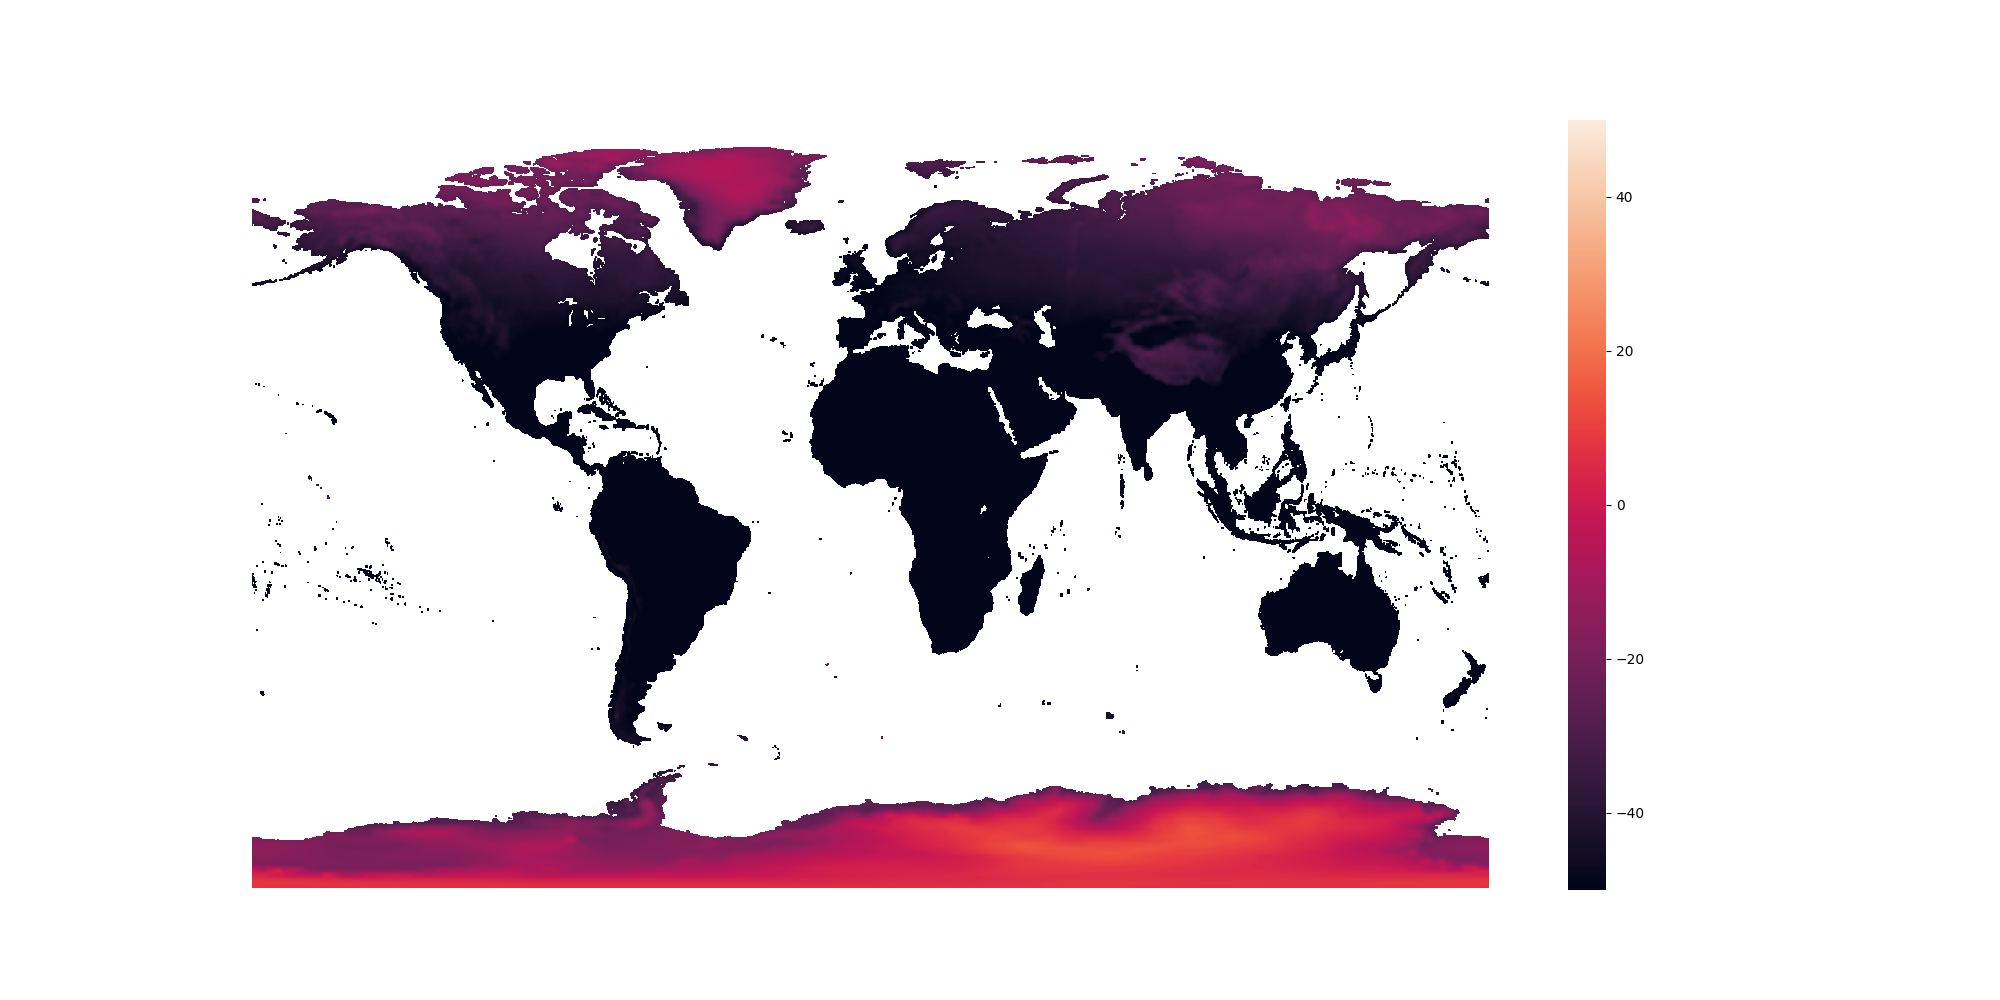
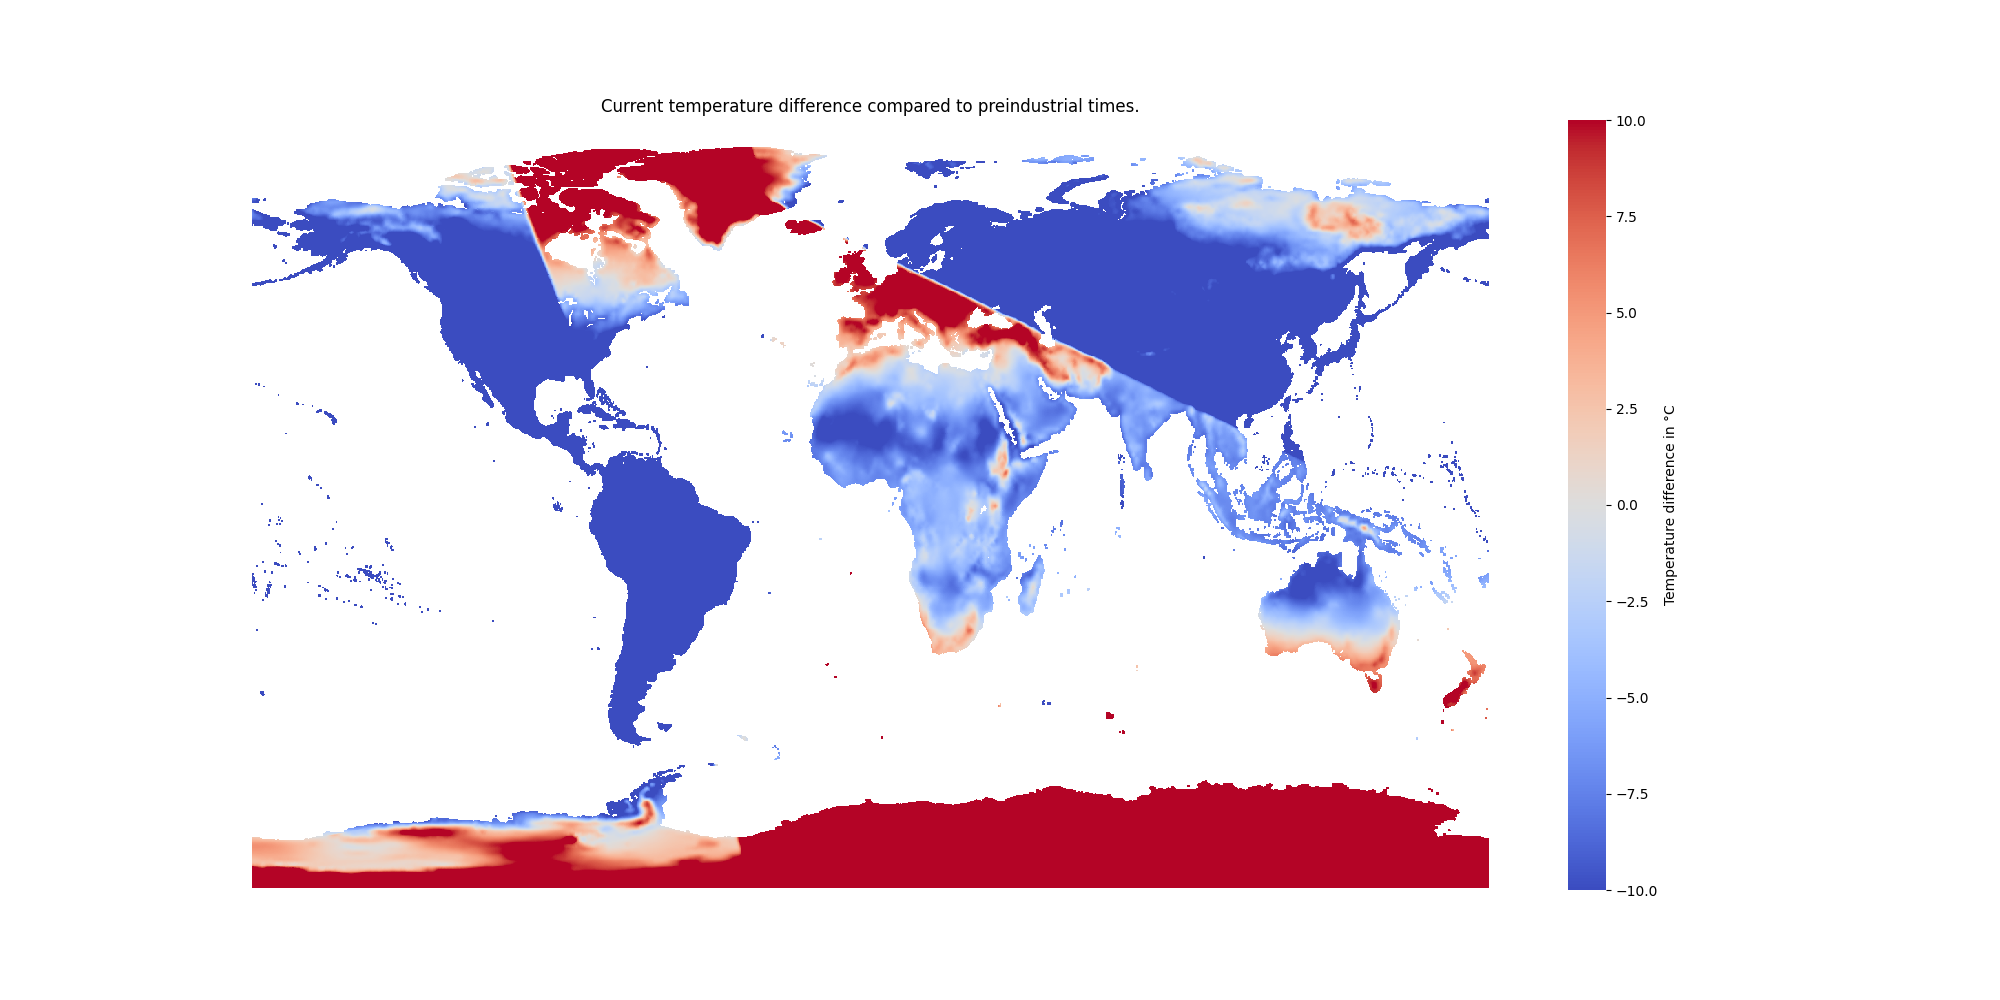
optimizations

diff --git a/src/webserver/templates/about.html b/src/webserver/templates/about.html
@@ -16,7 +16,7 @@
 	<body>
 		<div class="container text-center container-fluid">
 		  <h1 class="display-3">About Hot Tub</h1>
-		  <p class="lead">The world is on fire.</p>
+		  <p class="lead">Hot Tub is a final project for the Data Intensive Computing lecture at KTH 2020. The aim of this project was to build a data processing pipeline using high-scalability frameworks such as Spark. We chose to implement a real-time global warming monitor. Our heatmap shows the temperature difference of the last 24 hours compared to the preindustrial average on that day. This way, we hope to make climate change more tangible for people not accustomed to the methods and language of scientific analysis. The reference model is generated from historical data stemming from the Berkeley Earth dataset. Our real-time model gets synthesized from records we obain from the from the OpenWeatherMapAPI. Each sampling point gets send over Kafka and consumed by a SparkStreaming node which formats and inserts the entries into a Cassandra database. In parallel, our interpolation node uses pyspark and scipy to load the averaged samples from the database, build the model by interpolation and produce a temperature difference heatmap. This model is displayed in our webserver.</p>
 		  <hr class="my-4">
 		  <p class="lead">
 		  </p>

diff --git a/src/batch_processing/batch_processing.py b/src/batch_processing/batch_processing.py
@@ -1,3 +1,5 @@
+# -*- coding: utf-8 -*-
+
 import os
 import numpy as np
 from pathlib import Path
@@ -31,7 +33,7 @@ class BatchProcessor:
         self.num_api_workers = 1
         self.key_space_name = 'hot_tub'
         self.table_name = 'current'
-        self.processing_sigma = 0  # Value for gaussian filtering during model postprocessing. Modify if necessary.
+        self.processing_sigma = 3  # Value for gaussian filtering during model postprocessing. Modify if necessary.
         self.land_mask = np.load(self.ROOT_PATH.joinpath('data', 'mask_model.npy'))
         self.reference_model_loader = ReferenceModelLoader()
         os.environ['PYSPARK_SUBMIT_ARGS'] = '--packages com.datastax.spark:spark-cassandra-connector_2.11:2.3.0 \
@@ -69,7 +71,10 @@ class BatchProcessor:
         reference_model = self.reference_model_loader.load_model(day)
         model = curr_model - reference_model
         fig, ax = plt.subplots(figsize=(20, 10))
-        plot = sns.heatmap(model, ax=ax, vmin=-50, vmax=50, xticklabels=False, yticklabels=False)
+        ax.set_title('Current temperature difference compared to preindustrial times.')
+        cmap = sns.color_palette("coolwarm", as_cmap=True)
+        plot = sns.heatmap(model, ax=ax, vmin=-10, vmax=10, xticklabels=False, yticklabels=False, cmap=cmap,
+                           cbar_kws={'label': 'Temperature difference in °C'})
         plot.get_figure().savefig(self.ROOT_PATH.joinpath('src', 'webserver', 'static', 'global_temp_diff_map.png'))
         plt.close(fig)
 
@@ -94,7 +99,7 @@ class BatchProcessor:
         points = list()
         values = list()
         for city_and_loc, temperature in data.items():
-            _, lat, lon = self._unpack_city(city_and_loc)
+            _, lon, lat = self._unpack_city(city_and_loc)
             points.append([lat, lon])
             values.append(temperature)
         return self._interpolate_model(points, values)

diff --git a/src/batch_processing/reference_model/reference_model_loader.py b/src/batch_processing/reference_model/reference_model_loader.py
@@ -20,10 +20,10 @@ class ReferenceModelLoader:
     ROOT_PATH = Path(__file__).resolve().parents[3]  # Repository root path.
 
     def __init__(self):
-        """!@brief Class constructor loads the historical_average.csv file and the land mask matrix into memory for fast
-        access.
+        """!@brief Class constructor loads the land mask matrix into memory for fast access. 
+        
+        Larger dataset historical_average.csv is dropped during each load to save memory.
         """
-        self.model_df = pd.read_csv(self.ROOT_PATH.joinpath('data', 'historical_average.csv'))
         self.land_mask = np.load(self.ROOT_PATH.joinpath('data', 'mask_model.npy'), allow_pickle=False)
         self.model = dict()
 
@@ -44,8 +44,9 @@ class ReferenceModelLoader:
 
         @param day Day of the year to load (from 0 to 364). Type int.
         """
-        assert(day in self.model_df['day_number'].unique())
-        df = self.model_df[self.model_df['day_number'] == day]
+        model_df = pd.read_csv(self.ROOT_PATH.joinpath('data', 'historical_average.csv'))
+        assert(day in model_df['day_number'].unique())
+        df = model_df[model_df['day_number'] == day]
 
         x_grid, y_grid = np.mgrid[-450:450, -900:900]
         points = np.vstack((df.latitude * 5, df.longitude * 5)).T
@@ -53,6 +54,7 @@ class ReferenceModelLoader:
         model = np.flipud(griddata(points, values, (x_grid, y_grid), method='cubic'))
         model[~self.land_mask] = np.nan
         self.model[day] = model
+        del model_df
 
     def plot_model(self, day):
         """!@brief Plots the global reference temperature model.
